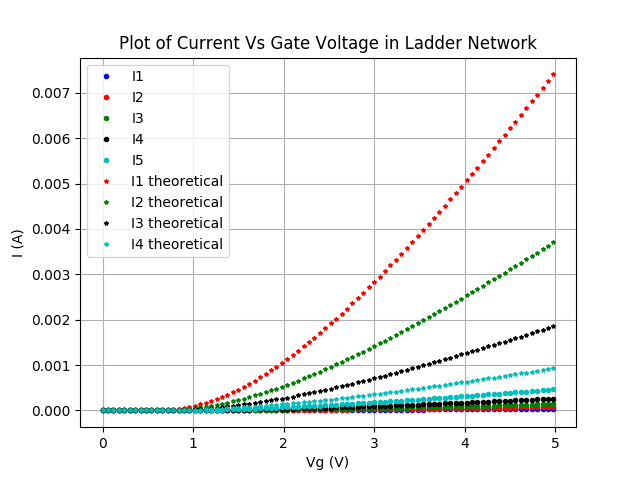
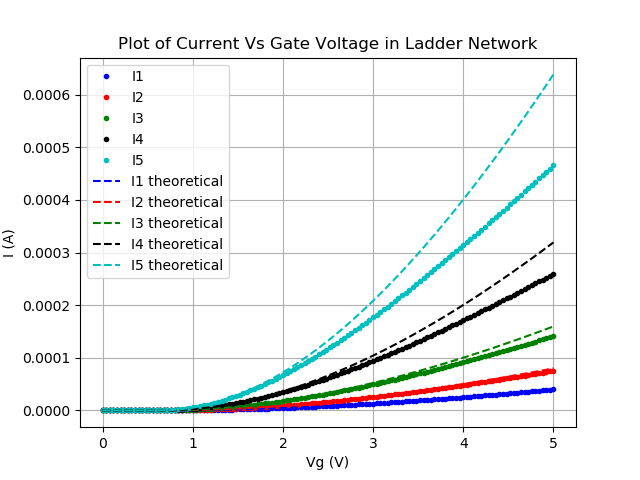
re indexed for transistors

diff --git a/Final Project/AllisonTest.py b/Final Project/AllisonTest.py
@@ -1,0 +1,117 @@
+import numpy as np
+import matplotlib.pyplot as plt
+from scipy import stats
+
+Ix = open('FinalProjectData.txt', 'r').read().split()
+vgs =[]
+i1 = []
+i2 = []
+i3 = []
+i4 = []
+i5 = []
+
+vgs2 =[]
+i12 = []
+i22 = []
+i32 = []
+i42 = []
+i52 = []
+
+i1_theo = []
+i2_theo = []
+i3_theo = []
+i4_theo = []
+i5_theo = []
+
+count = 0
+for line in Ix:
+    if "v2" in line:
+        pass
+    else:
+        if count == 0:
+            vgs.append(float(line))
+        elif count == 2:
+            i1.append(float(line))
+        elif count == 3:
+            i2.append(float(line))
+        elif count == 4:
+            i3.append(float(line))
+        elif count == 5:
+            i4.append(float(line))
+        elif count == 6:
+            i5.append(float(line))
+            count = -1
+        count += 1
+
+ind = 0
+for x in i1:
+    i1_theo.append(x)
+    i2_theo.append(2*x)
+    i3_theo.append(4*x)
+    i4_theo.append(8*x)
+    i5_theo.append(16*x)
+    ind+=1
+
+x = 4
+
+import numpy as np
+vgs1 = np.asarray(vgs)
+vgs = vgs1[::x] #Take every x element
+
+i1 = np.asarray(i1)
+i1 = i1[::x]
+
+i1_theo1 = np.asarray(i1_theo)
+i1_theo = i1_theo1[::x]
+
+i2 = np.asarray(i2)
+i2 = i2[::x]
+
+i2_theo1 = np.asarray(i2_theo)
+i2_theo = i2_theo1[::x]
+
+i3 = np.asarray(i3)
+i3 = i3[::x]
+
+i3_theo1 = np.asarray(i3_theo)
+i3_theo = i3_theo1[::x]
+
+i4 = np.asarray(i4)
+i4 = i4[::x]
+
+i4_theo1 = np.asarray(i4_theo)
+i4_theo = i4_theo1[::x]
+
+i5 = np.asarray(i5)
+i5 = i5[::x]
+
+i5_theo1 = np.asarray(i5_theo)
+i5_theo = i5_theo1[::x]
+
+
+
+if __name__ == '__main__':
+    title = "Plot of Current Vs Gate Voltage in Ladder Network"
+    xLabel = "Vg (V)"
+    yLabel = "I (A)"
+
+    Data = plt.plot(vgs, i1, 'bo', markersize=3, label="I1")
+    Data = plt.plot(vgs, i2, 'ro', markersize=3, label="I2")
+    Data = plt.plot(vgs, i3, 'go', markersize=3, label="I3")
+    Data = plt.plot(vgs, i4, 'ko', markersize=3, label="I4")
+    Data = plt.plot(vgs, i5, 'co', markersize=3, label="I5")
+
+    Data = plt.plot(vgs, i1_theo, 'b--', markersize=3, label="I1 theoretical")
+    Data = plt.plot(vgs, i2_theo, 'r--', markersize=3, label="I2 theoretical")
+    Data = plt.plot(vgs, i3_theo, 'g--', markersize=3, label="I3 theoretical")
+    Data = plt.plot(vgs, i4_theo, 'k--', markersize=3, label="I4 theoretical")
+    Data = plt.plot(vgs, i5_theo, 'c--', markersize=3, label="I5 theoretical")
+
+
+    plt.legend()
+    plt.xlabel(xLabel)
+    plt.ylabel(yLabel)
+    plt.title(title)
+    plt.grid(True)
+    plt.savefig('currents.png', format='png')
+    plt.show()

diff --git a/Final Project/currents.py b/Final Project/currents.py
@@ -51,12 +51,14 @@ for i, v in enumerate(vgs):
         i42.append(i4[i])
         i52.append(i5[i])
 
-for val in i52:
+for i, val in enumerate(i52):
+    print(val/i1[1])
     i1_theo.append(16*val)
     i2_theo.append(8*val)
     i3_theo.append(4*val)
     i4_theo.append(2*val)
 
+#print(i1_theo)
 
 if __name__ == '__main__':
     title = "Plot of Current Vs Gate Voltage in Ladder Network"
@@ -64,15 +66,15 @@ if __name__ == '__main__':
     yLabel = "I (A)"
 
     Data = plt.plot(vgs2, i12, 'bo', markersize=3, label="I1")
-    Data = plt.plot(vgs2, i22, 'ro', markersize=3, label="I2")
-    Data = plt.plot(vgs2, i32, 'go', markersize=3, label="I3")
-    Data = plt.plot(vgs2, i42, 'ko', markersize=3, label="I4")
-    Data = plt.plot(vgs2, i52, 'co', markersize=3, label="I5")
+    # Data = plt.plot(vgs2, i22, 'ro', markersize=3, label="I2")
+    # Data = plt.plot(vgs2, i32, 'go', markersize=3, label="I3")
+    # Data = plt.plot(vgs2, i42, 'ko', markersize=3, label="I4")
+    # Data = plt.plot(vgs2, i52, 'co', markersize=3, label="I5")
 
     Data = plt.plot(vgs2, i1_theo, 'r*', markersize=3, label="I1 theoretical")
-    Data = plt.plot(vgs2, i2_theo, 'g*', markersize=3, label="I2 theoretical")
-    Data = plt.plot(vgs2, i3_theo, 'k*', markersize=3, label="I3 theoretical")
-    Data = plt.plot(vgs2, i4_theo, 'c*', markersize=3, label="I4 theoretical")
+    # Data = plt.plot(vgs2, i2_theo, 'g*', markersize=3, label="I2 theoretical")
+    # Data = plt.plot(vgs2, i3_theo, 'k*', markersize=3, label="I3 theoretical")
+    # Data = plt.plot(vgs2, i4_theo, 'c*', markersize=3, label="I4 theoretical")
 
 
     plt.legend()
